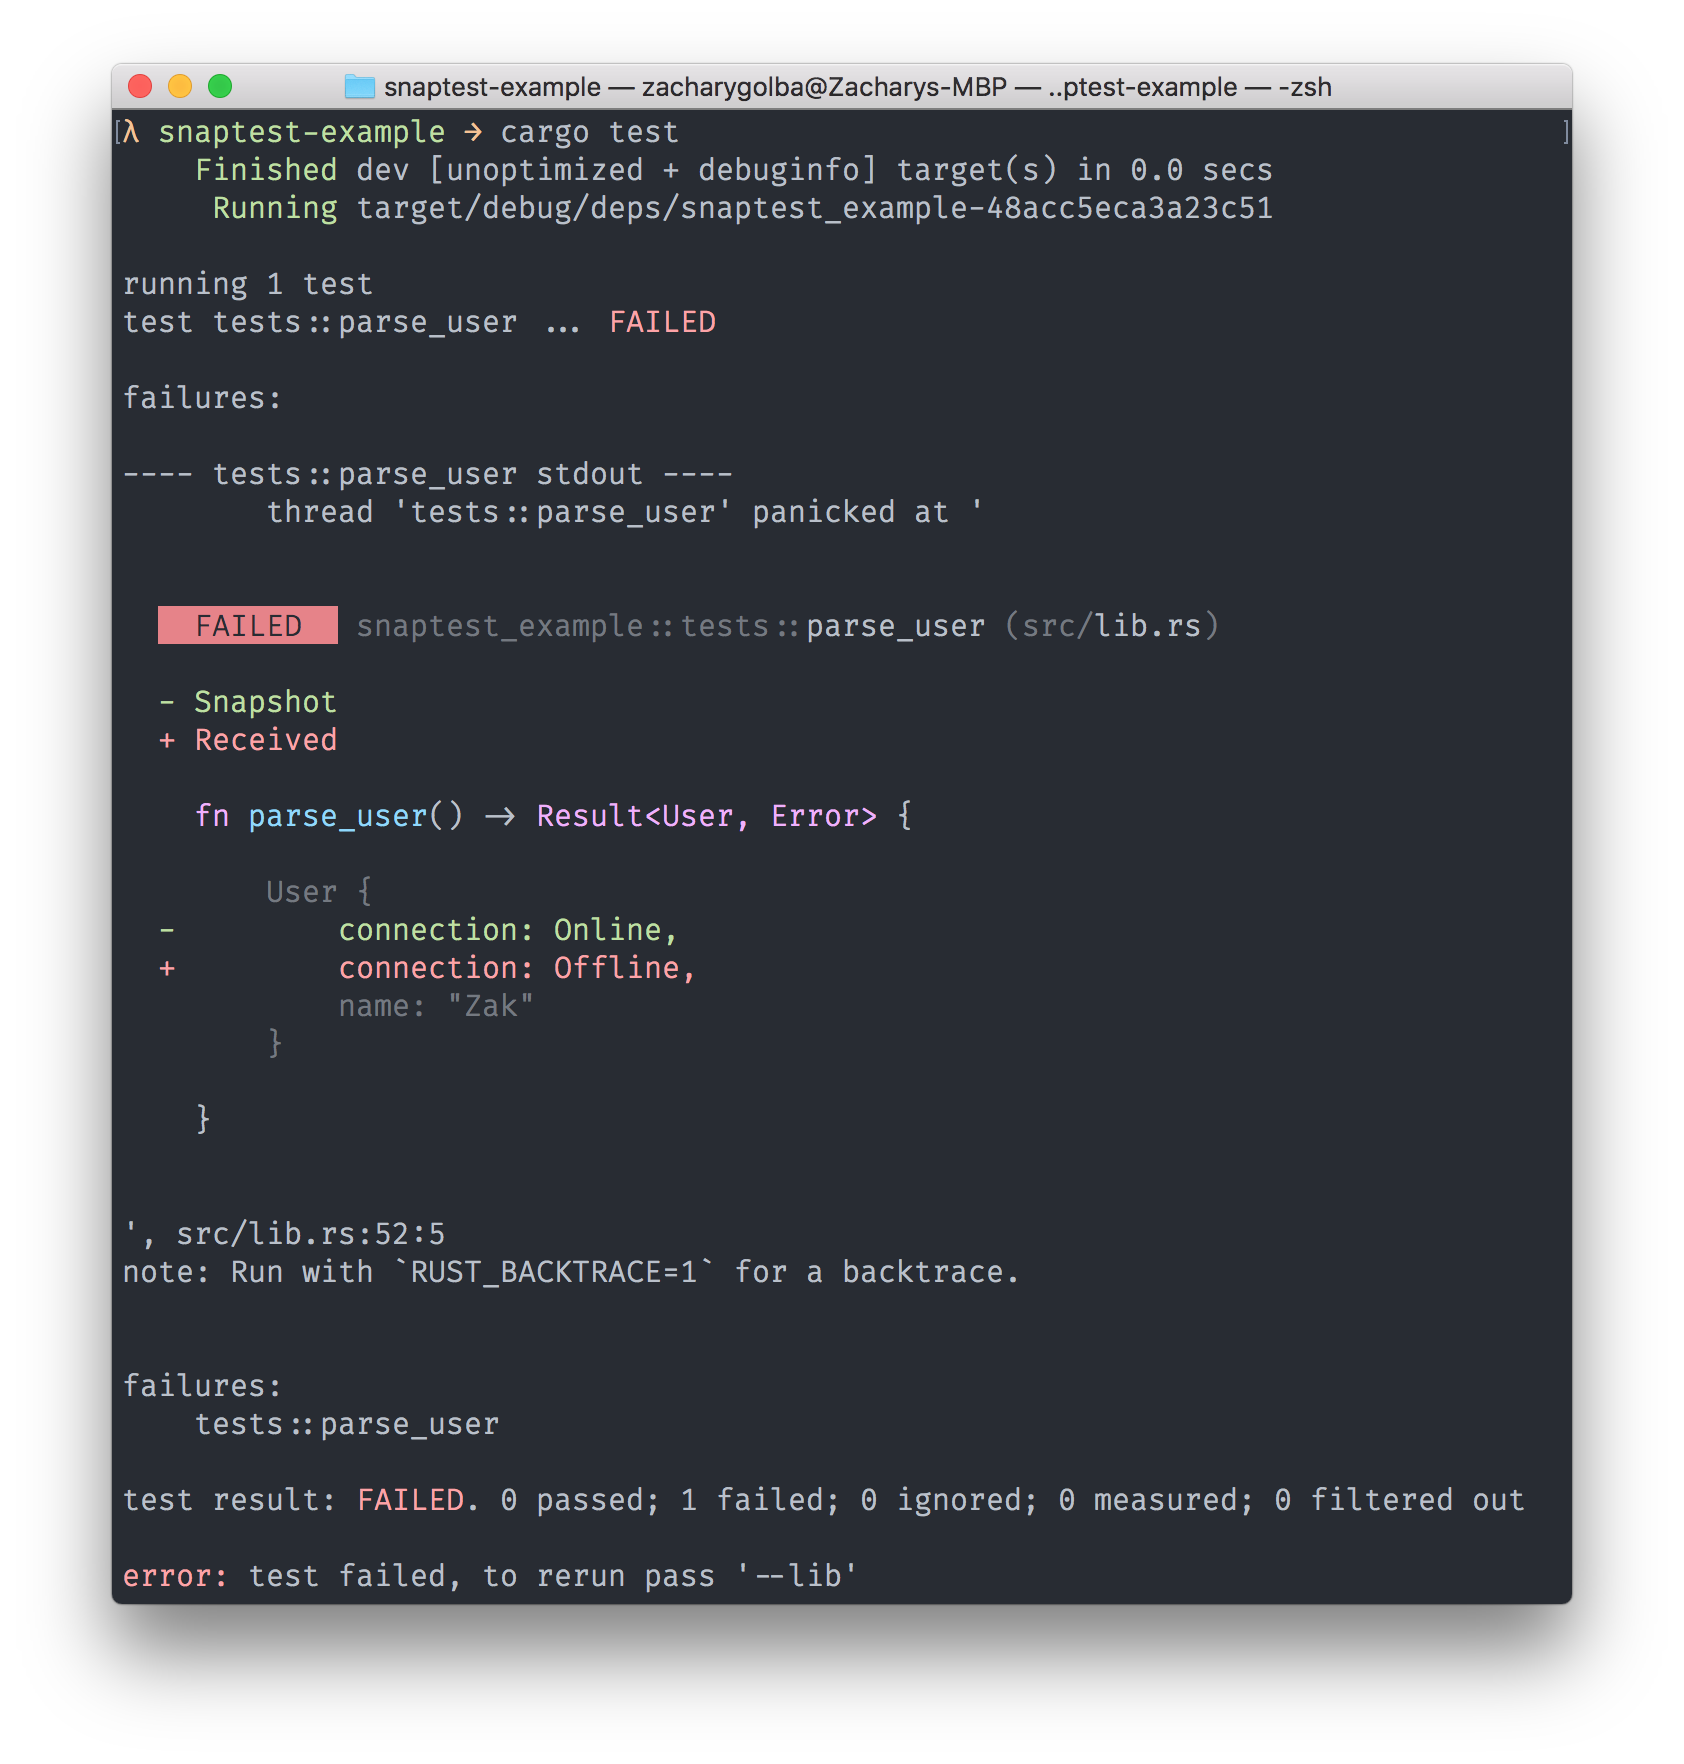
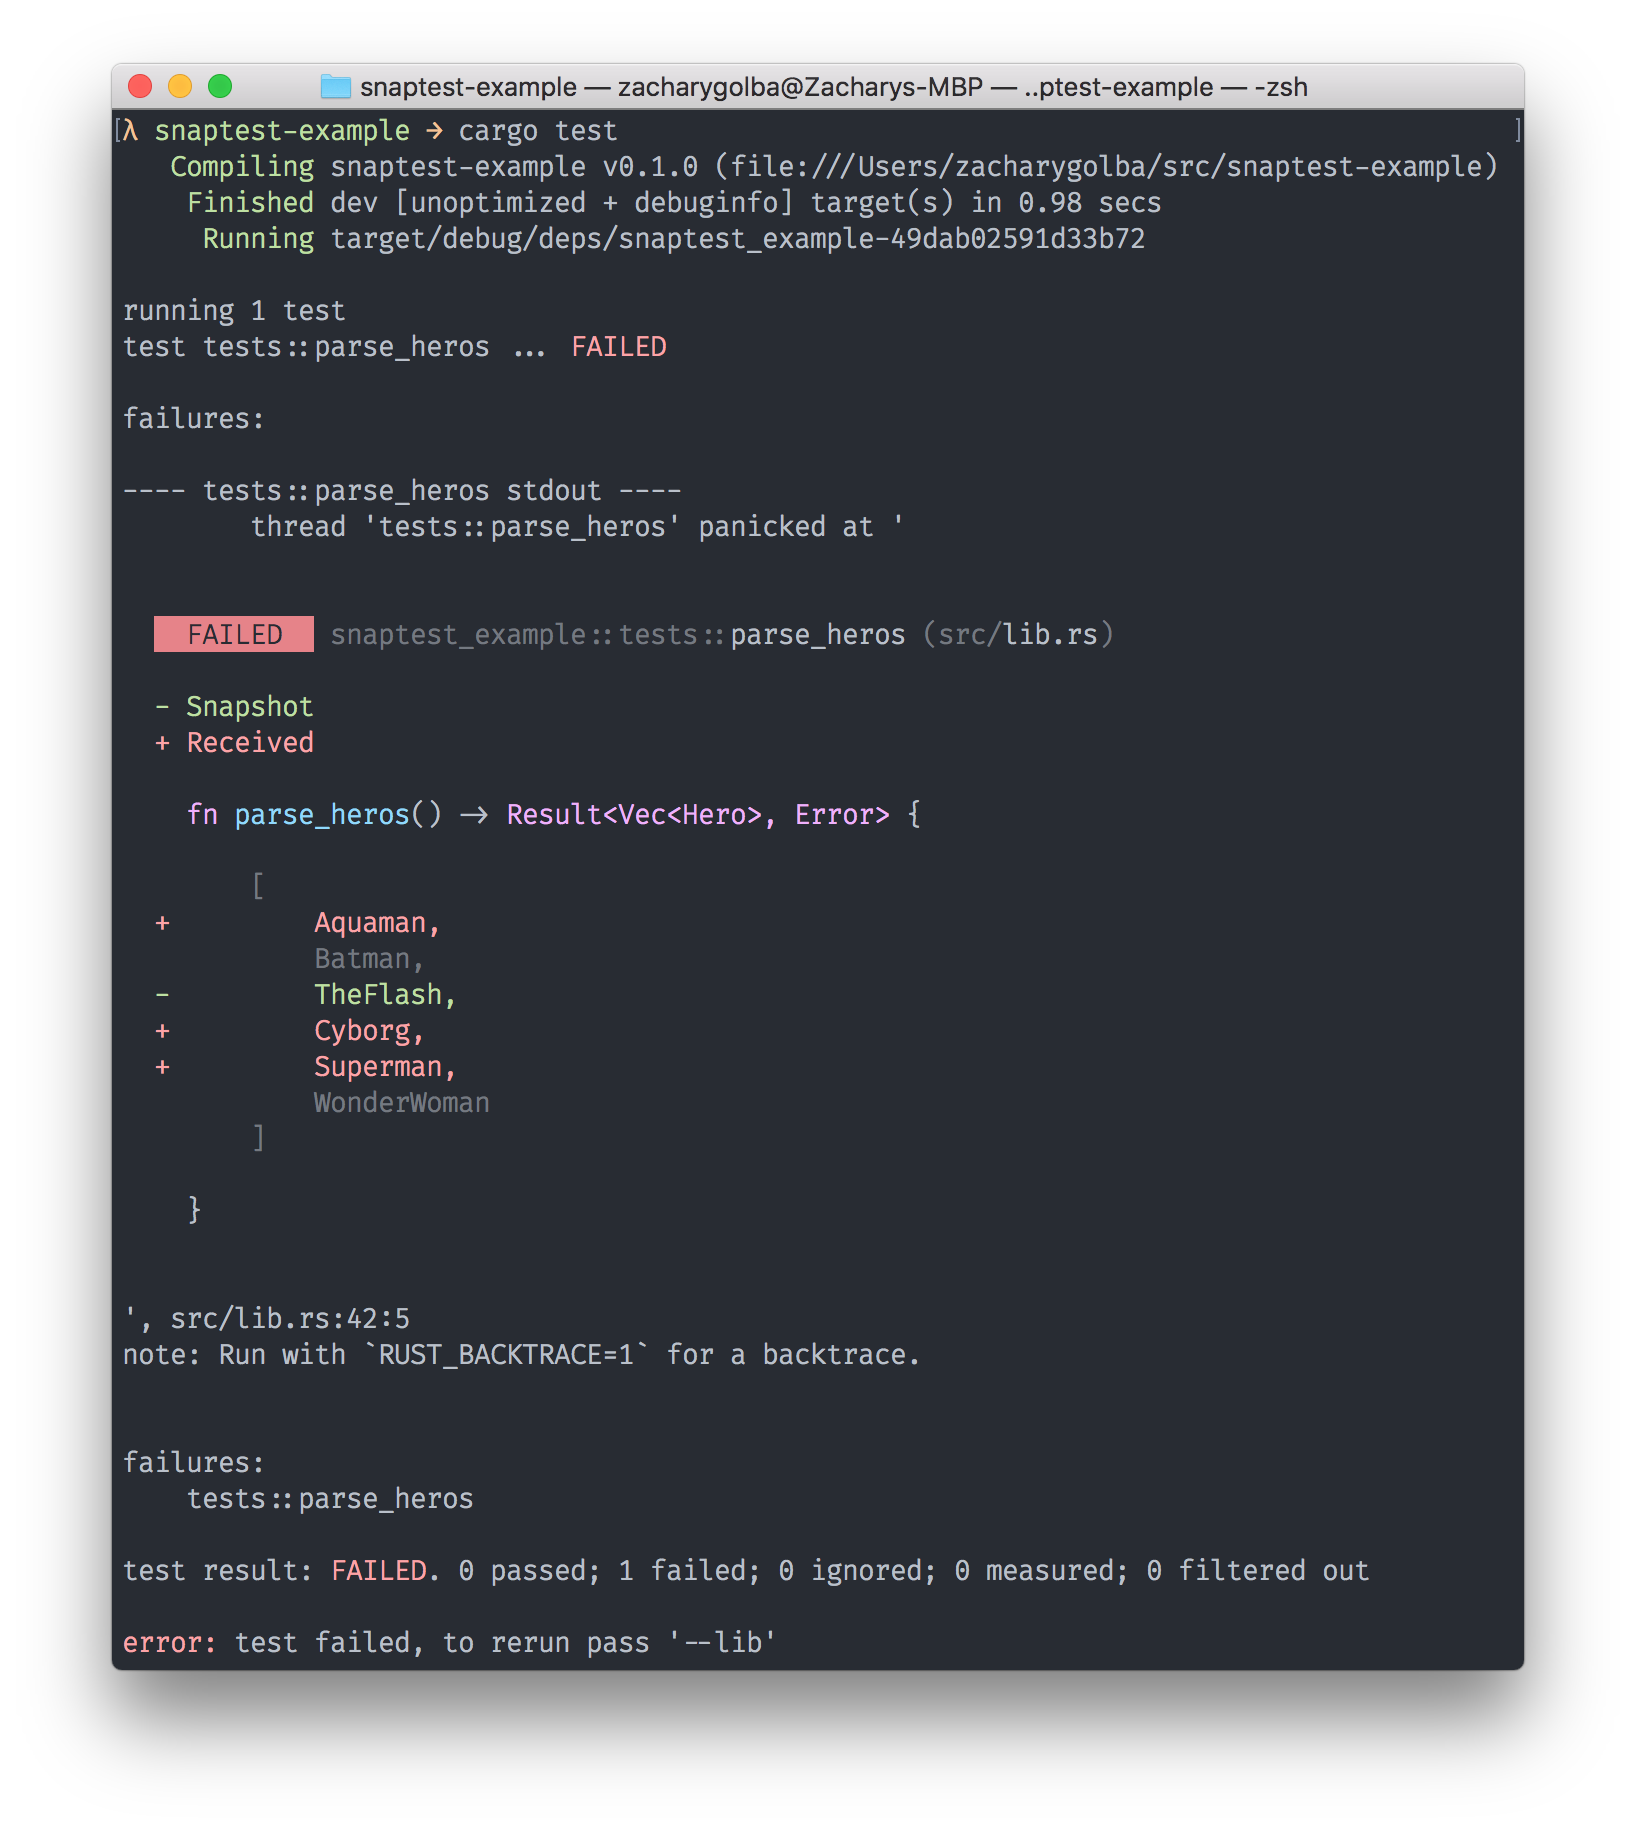
docs: use a more fun example in the readme

diff --git a/README.md b/README.md
@@ -37,31 +37,44 @@ extern crate snaptest;
 Derive `Debug` on types that you want to use with snaptest:
 
 ```rust
+#[macro_use]
+extern crate failure;
+#[cfg_attr(test, macro_use)]
+extern crate snaptest;
+
 use std::str::FromStr;
 
 #[derive(Debug)]
-pub struct User {
-    connection: Connection,
-    name: String,
+enum Hero {
+    Batman,
+    TheFlash,
+    WonderWoman,
 }
 
-#[derive(Debug)]
-pub enum Connection {
-    Online,
-    Offline,
+impl FromStr for Hero {
+    type Err = Error;
+
+    fn from_str(value: &str) -> Result<Hero, Self::Err> {
+        match value {
+            "Batman" => Ok(Hero::Batman),
+            "The Flash" => Ok(Hero::TheFlash),
+            "Wonder Woman" => Ok(Hero::WonderWoman),
+            _ => bail!(r#""{}" is not a hero"#),
+        }
+    }
 }
 
-impl FromStr for User {
-  // ...
-}
-```
+#[cfg(test)]
+mod tests {
+    use failure::Error;
 
-Now, in the test module for the `User` struct:
+    use super::Hero; // no pun intended...
 
-```rust
-snaptest!{
-    fn parse_user() -> Result<User, Error> {
-        "Zak:online".parse()
+    snaptest!{
+        fn parse_heros() -> Result<Vec<Hero>, Error> {
+            let heros = ["Batman", "The Flash", "Wonder Woman"];
+            heros.iter().map(|hero| hero.parse()).collect()
+        }
     }
 }
 ```
@@ -69,7 +82,7 @@ snaptest!{
 Next time your test runs, a snapshot will be added to a local `.snapfile` to compare against future test results. If you get a different result back than what matches the snapshot, the test will fail and the diff will be printed to the console.
 
 <p align="center">
-  <img  alt="Snaptest Example" src="./docs/example.png" height="728" width="694" />
+  <img  alt="Snaptest Example" src="./docs/example.png" height="915" width="818" />
 </p>
 
 ## License
